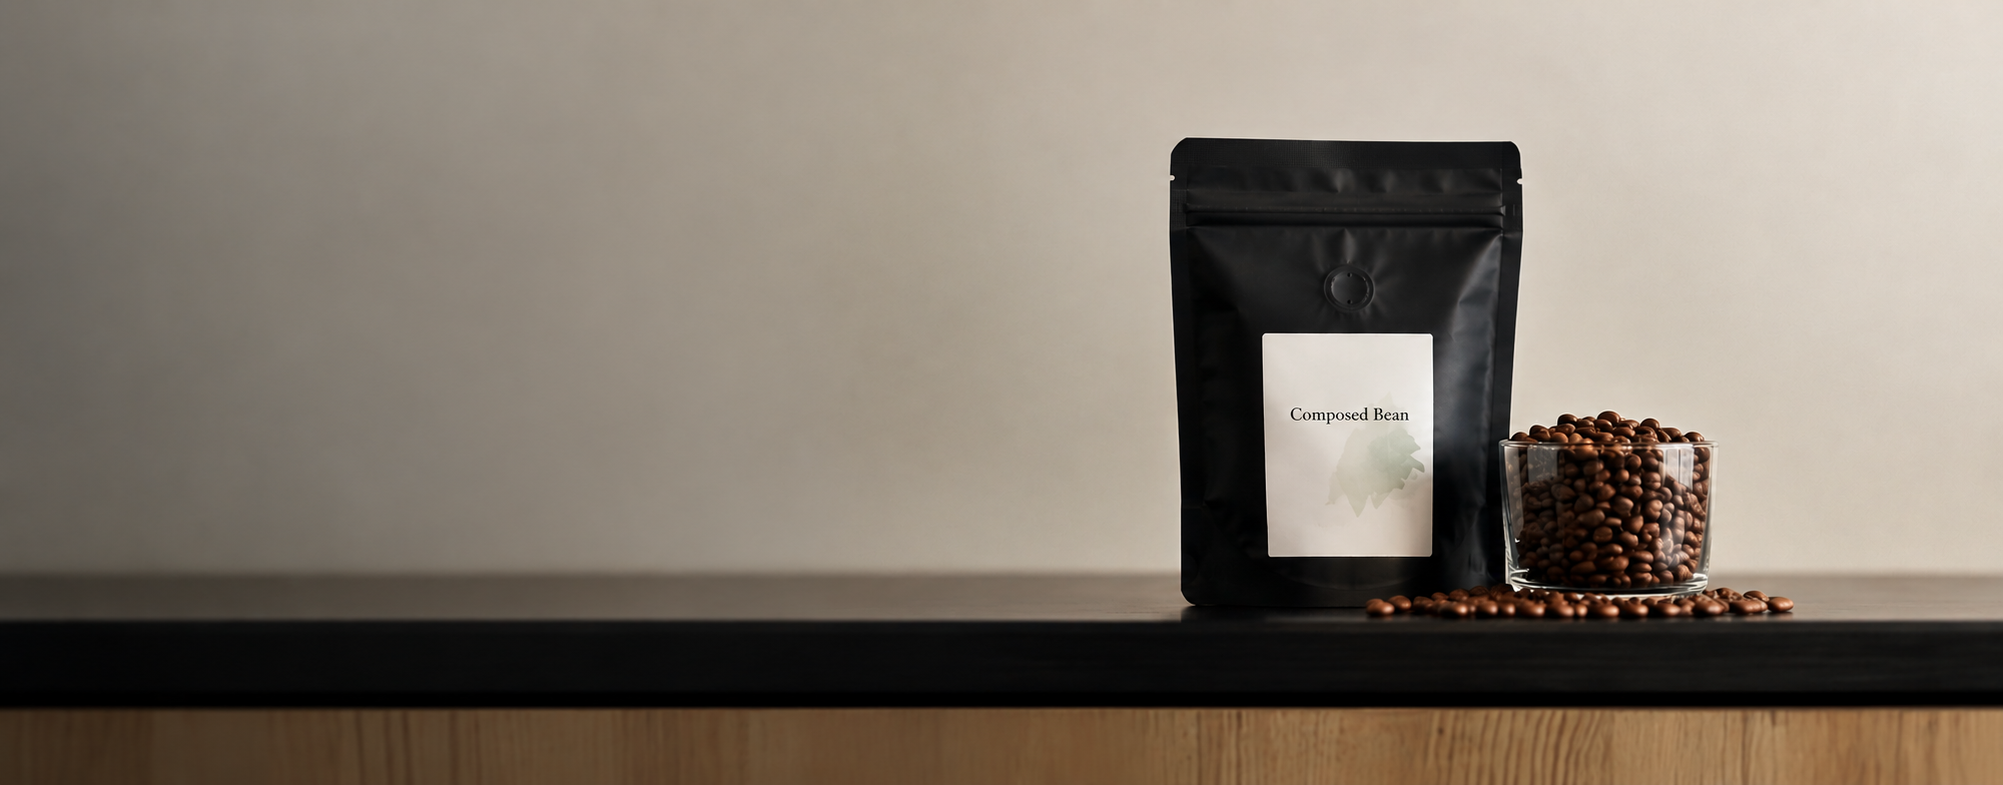
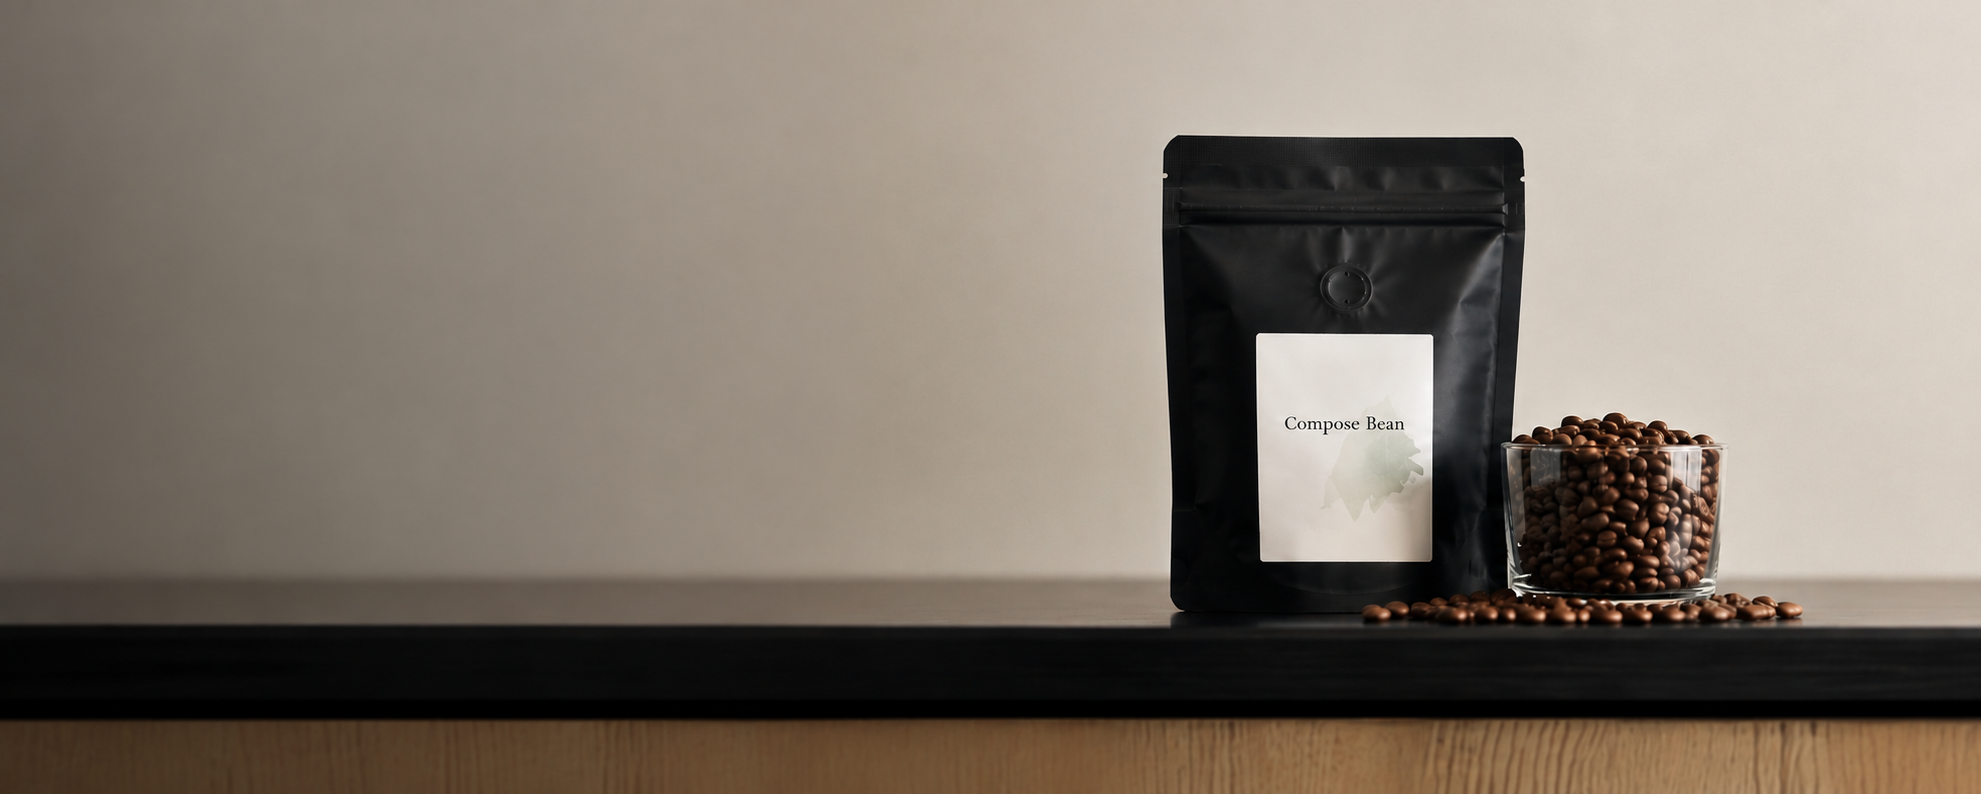
Design: 화면 UI 및 브랜드 표기 개선

diff --git a/src/main/resources/templates/product-detail.html b/src/main/resources/templates/product-detail.html
@@ -3,14 +3,14 @@
 <head>
     <meta charset="UTF-8">
     <meta name="viewport" content="width=device-width, initial-scale=1.0">
-    <title>상품 상세 | COMPOSED BEAN</title>
+    <title>상품 상세 | COMPOSE BEAN</title>
     <link rel="stylesheet" th:href="@{/css/composebean.css(v=8)}">
 </head>
 <body>
 <header class="catalog-header">
     <span></span>
     <a class="catalog-brand" th:href="@{/}">
-        <span>COMPOSED</span>
+        <span>COMPOSE</span>
         <strong>BEAN</strong>
     </a>
     <div class="catalog-header-actions">
@@ -32,7 +32,7 @@
         </div>
 
         <div class="product-detail-content">
-            <p class="eyebrow">COMPOSED BEAN COLLECTION</p>
+            <p class="eyebrow">COMPOSE BEAN COLLECTION</p>
             <h1 id="product-detail-name"></h1>
             <p id="product-detail-description" class="product-detail-description"></p>
 

diff --git a/src/main/resources/templates/order-list.html b/src/main/resources/templates/order-list.html
@@ -12,7 +12,7 @@
 <header class="catalog-header order-list-site-header">
     <span aria-hidden="true"></span>
     <a class="catalog-brand" th:href="@{/}" aria-label="Compose Bean 홈">
-        <span>COMPOSED</span>
+        <span>COMPOSE</span>
         <strong>BEAN</strong>
     </a>
     <div class="catalog-header-actions">

diff --git a/src/main/resources/templates/order.html b/src/main/resources/templates/order.html
@@ -20,7 +20,7 @@
         </form>
 
         <a class="catalog-brand" th:href="@{/}" aria-label="Compose Bean 홈">
-            <span>COMPOSED</span>
+            <span>COMPOSE</span>
             <strong>BEAN</strong>
         </a>
         <div class="catalog-header-actions">

diff --git a/src/main/resources/templates/product-admin.html b/src/main/resources/templates/product-admin.html
@@ -10,7 +10,7 @@
 <header class="catalog-header product-admin-site-header">
     <span aria-hidden="true"></span>
     <a class="catalog-brand" th:href="@{/}" aria-label="Compose Bean 홈">
-        <span>COMPOSED</span>
+        <span>COMPOSE</span>
         <strong>BEAN</strong>
     </a>
     <div class="catalog-header-actions">

diff --git a/src/main/resources/templates/receipt.html b/src/main/resources/templates/receipt.html
@@ -10,7 +10,7 @@
 <header class="catalog-header receipt-site-header">
     <span aria-hidden="true"></span>
     <a class="catalog-brand" th:href="@{/}" aria-label="Compose Bean 홈">
-        <span>COMPOSED</span>
+        <span>COMPOSE</span>
         <strong>BEAN</strong>
     </a>
     <div class="catalog-header-actions">